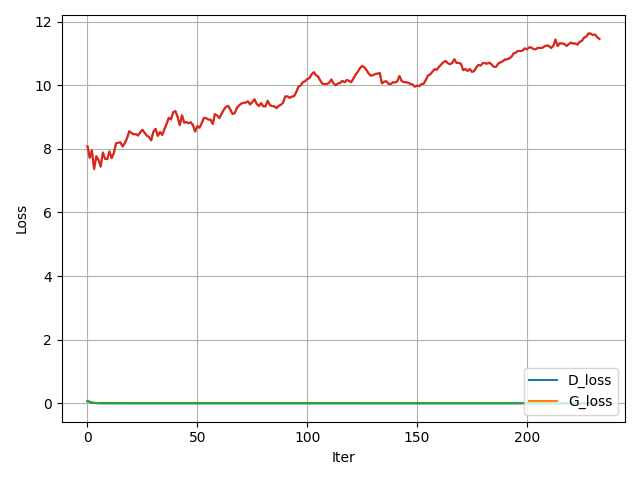
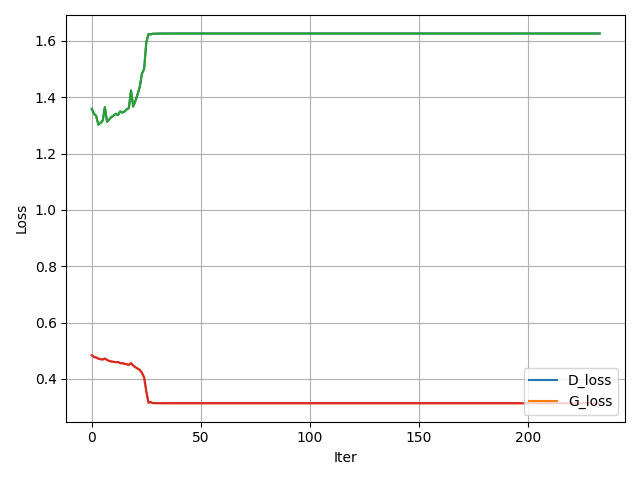
Added SWN Torch Module

diff --git a/normalizers.py b/normalizers.py
@@ -11,14 +11,72 @@ def l2normalize(v, eps=1e-12):
     return v / (v.norm() + eps)
 
 
-class SpectralNorm(nn.Module):
+class SpectralNormnp(nn.Module):
     def forward(self, w, power_iterations=1):
-        w = w.data.shape[0]
-        height = w.data.shape[0]
+        height = w.shape[0]
         for _ in range(power_iterations):
-            v = l2normalize(np.matmul(np.transpose(w.view(height,-1).data), u.data))
-            u = l2normalize(np.matmul(w.view(height,-1).data, v.data))
+            v = l2normalize(torch.mv(torch.t(w.view(height,-1)), u))
+            u = l2normalize(torch.mv(w.view(height,-1), v))
 
         sigma = u.dot(w.view(height, -1).mv(v))
         return w / sigma.expand_as(w)
 
+def l2normalize(v, eps=1e-12):
+    return v / (v.norm() + eps)
+
+
+class SpectralNorm(nn.Module):
+    def __init__(self, module, name='weight', power_iterations=1):
+        super(SpectralNorm, self).__init__()
+        self.module = module
+        self.name = name
+        self.power_iterations = power_iterations
+        if not self._made_params():
+            self._make_params()
+
+    def _update_u_v(self):
+        u = getattr(self.module, self.name + "_u")
+        v = getattr(self.module, self.name + "_v")
+        w = getattr(self.module, self.name + "_bar")
+
+        height = w.data.shape[0]
+        for _ in range(self.power_iterations):
+            v.data = l2normalize(torch.mv(torch.t(w.view(height,-1).data), u.data))
+            u.data = l2normalize(torch.mv(w.view(height,-1).data, v.data))
+
+        # sigma = torch.dot(u.data, torch.mv(w.view(height,-1).data, v.data))
+        sigma = u.dot(w.view(height, -1).mv(v))
+        setattr(self.module, self.name, w / sigma.expand_as(w))
+
+    def _made_params(self):
+        try:
+            u = getattr(self.module, self.name + "_u")
+            v = getattr(self.module, self.name + "_v")
+            w = getattr(self.module, self.name + "_bar")
+            return True
+        except AttributeError:
+            return False
+
+
+    def _make_params(self):
+        w = getattr(self.module, self.name)
+
+        height = w.data.shape[0]
+        width = w.view(height, -1).data.shape[1]
+
+        u = Parameter(w.data.new(height).normal_(0, 1), requires_grad=False)
+        v = Parameter(w.data.new(width).normal_(0, 1), requires_grad=False)
+        u.data = l2normalize(u.data)
+        v.data = l2normalize(v.data)
+        w_bar = Parameter(w.data)
+
+        del self.module._parameters[self.name]
+
+        self.module.register_parameter(self.name + "_u", u)
+        self.module.register_parameter(self.name + "_v", v)
+        self.module.register_parameter(self.name + "_bar", w_bar)
+
+
+    def forward(self, *args):
+        self._update_u_v()
+        return self.module.forward(*args)

diff --git a/DCGAN.py b/DCGAN.py
@@ -72,11 +72,11 @@ class Generator(nn.Module):
         
         elif nn_type == 'swnconvbn2d':
           self.gen = nn.Sequential(
-              get_swn_conv2d_bn2d_generator_block(z_dim, hidden_dim * 8, 4, 1, 0, True),
-              get_swn_conv2d_bn2d_generator_block(hidden_dim * 8, hidden_dim * 4, 4, 2, 1, True),
-              get_swn_conv2d_bn2d_generator_block(hidden_dim * 4, hidden_dim * 2, 4, 2, 1, True),
-              get_swn_conv2d_bn2d_generator_block(hidden_dim * 2, hidden_dim, 4, 2 ,1, True),
-              get_swn_conv2d_bn2d_generator_block(hidden_dim, 1, 4, 2, 1, False),
+              get_conv2d_bn2d_generator_block(z_dim, hidden_dim * 8, 4, 1, 0, True),
+              get_conv2d_bn2d_generator_block(hidden_dim * 8, hidden_dim * 4, 4, 2, 1, True),
+              get_conv2d_bn2d_generator_block(hidden_dim * 4, hidden_dim * 2, 4, 2, 1, True),
+              get_conv2d_bn2d_generator_block(hidden_dim * 2, hidden_dim, 4, 2 ,1, True),
+              get_conv2d_bn2d_generator_block(hidden_dim, 1, 4, 2, 1, False),
               nn.Tanh()
           )
         elif nn_type == 'gconv2d':
@@ -165,7 +165,6 @@ class Discriminator(nn.Module):
                 nn.Conv2d(hidden_dim * 8, 1, 4, 1, 0), 
                 nn.Sigmoid()
             )
-
         elif nn_type == 'gconv2d':
             self.disc = nn.Sequential(
                 GatedConv2dWithActivation(1, hidden_dim, 4, 1, 0),
@@ -244,15 +243,13 @@ def train(arch_type, nn_type, batch_size, n_epochs, display_step, device, visual
 
 
     # Initialize The Generator and Discriminator Networks
-    # gen = Generator(nn_type=nn_type, z_dim=z_dim).to(device)
-    # disc = Discriminator(nn_type=nn_type, z_dim=z_dim).to(device)
-    gen = Generator(128).to(device)
-    disc = Discriminator().to(device)
+    gen = Generator(nn_type=nn_type, z_dim=z_dim).to(device)
+    disc = Discriminator(nn_type=nn_type, z_dim=z_dim).to(device)
     
     
-    # if arch_type == "2D":
-    #     gen.weight_init(mean=0.0, std=0.02)
-    #     disc.weight_init(mean=0.0, std=0.02)
+    if arch_type == "2D":
+        gen.weight_init(mean=0.0, std=0.02)
+        disc.weight_init(mean=0.0, std=0.02)
     if nn_type == "swnconvbn2d":
         disc_opt = torch.optim.Adam(filter(lambda p: p.requires_grad, disc.parameters()), lr=lr, betas=(0.0,0.9))
         gen_opt  = torch.optim.Adam(disc.parameters(), lr=lr, betas=(0.0,0.9))

diff --git a/layers.py b/layers.py
@@ -101,11 +101,11 @@ def get_swn_conv2d_bn2d_generator_block(input_dim, output_dim, kernel_s, stride,
         a generator neural network layer, with a linear transformation 
           followed by a batch normalization and then a relu activation
     '''
-    swn = SpectralNorm()
+    # swn = SpectralNorm()
     if batch_n:
       return nn.Sequential(
           nn.ConvTranspose2d(input_dim, output_dim, kernel_s, stride, pad),
-          swn,
+          SpectralNorm(output_dim),
           nn.ReLU(inplace=True)
       )
     return nn.Sequential(
@@ -140,7 +140,7 @@ def get_swn_gated_conv_generator_block(input_dim, output_dim, kernel_s, stride, 
     Returns:
         a discriminator neural network layer, with a linear transformation 
     '''
-    swn = SpectralNorm()
+    # swn = SpectralNorm()
     return nn.Sequential(
         nn.ConvTranspose2d(input_dim, output_dim, kernel_s, stride, pad),
         nn.BatchNorm2d(output_dim),
@@ -211,7 +211,7 @@ def get_swn_gated_conv_discriminator_block(input_dim, output_dim, kernel_size, s
     swn = SpectralNorm()
     return nn.Sequential(
         GatedConv2dWithActivation(input_dim, output_dim, kernel_size, stride, pad),
-        swn,
+        SpectralNorm(),
         nn.LeakyReLU(0.2, inplace=True)
     )
 
@@ -226,8 +226,7 @@ def get_swn_conv2d_bn2d_discriminator_block(input_dim, output_dim, kernel_size, 
         a discriminator neural network layer, with a linear transformation and speteral normalization 
     '''
     return nn.Sequential(
-        nn.Conv2d(input_dim, output_dim, kernel_size, 2, pad),
-        SpectralNorm(),
+        SpectralNorm(nn.Conv2d(input_dim, output_dim, kernel_size, 2, pad)),
         nn.LeakyReLU(0.2, inplace=True)
     )
 

diff --git a/losses.py b/losses.py
@@ -43,8 +43,8 @@ def get_disc_loss(gen, disc, criterion, real, num_images, z_dim, device, arch_ty
     Returns:
         disc_loss: a torch scalar loss value for the current batch
     '''
-    y_real_samples = torch.ones(num_images, 4, 4)
-    y_fake_samples = torch.zeros(num_images, 4, 4)
+    y_real_samples = torch.ones(num_images)
+    y_fake_samples = torch.zeros(num_images)
     real , y_real_samples, y_fake_samples = Variable(real.cuda()), Variable(y_real_samples.cuda()), Variable(y_fake_samples.cuda())
     disc_output = disc(real).squeeze()
     disc_real_loss = criterion(disc_output, y_real_samples)
